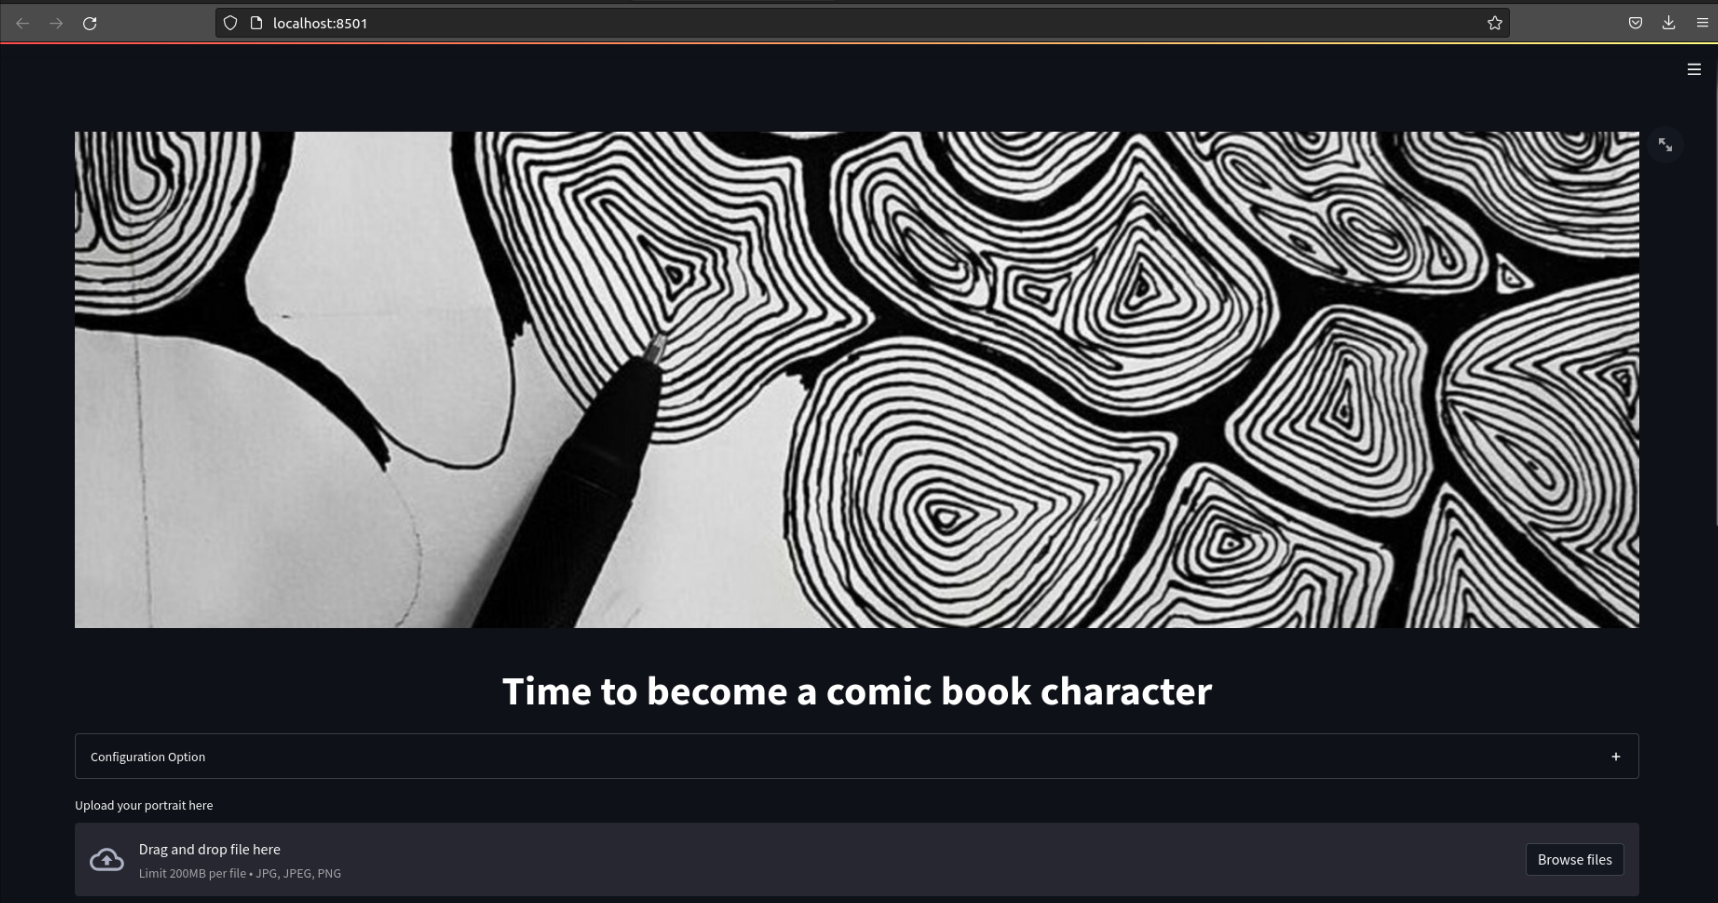
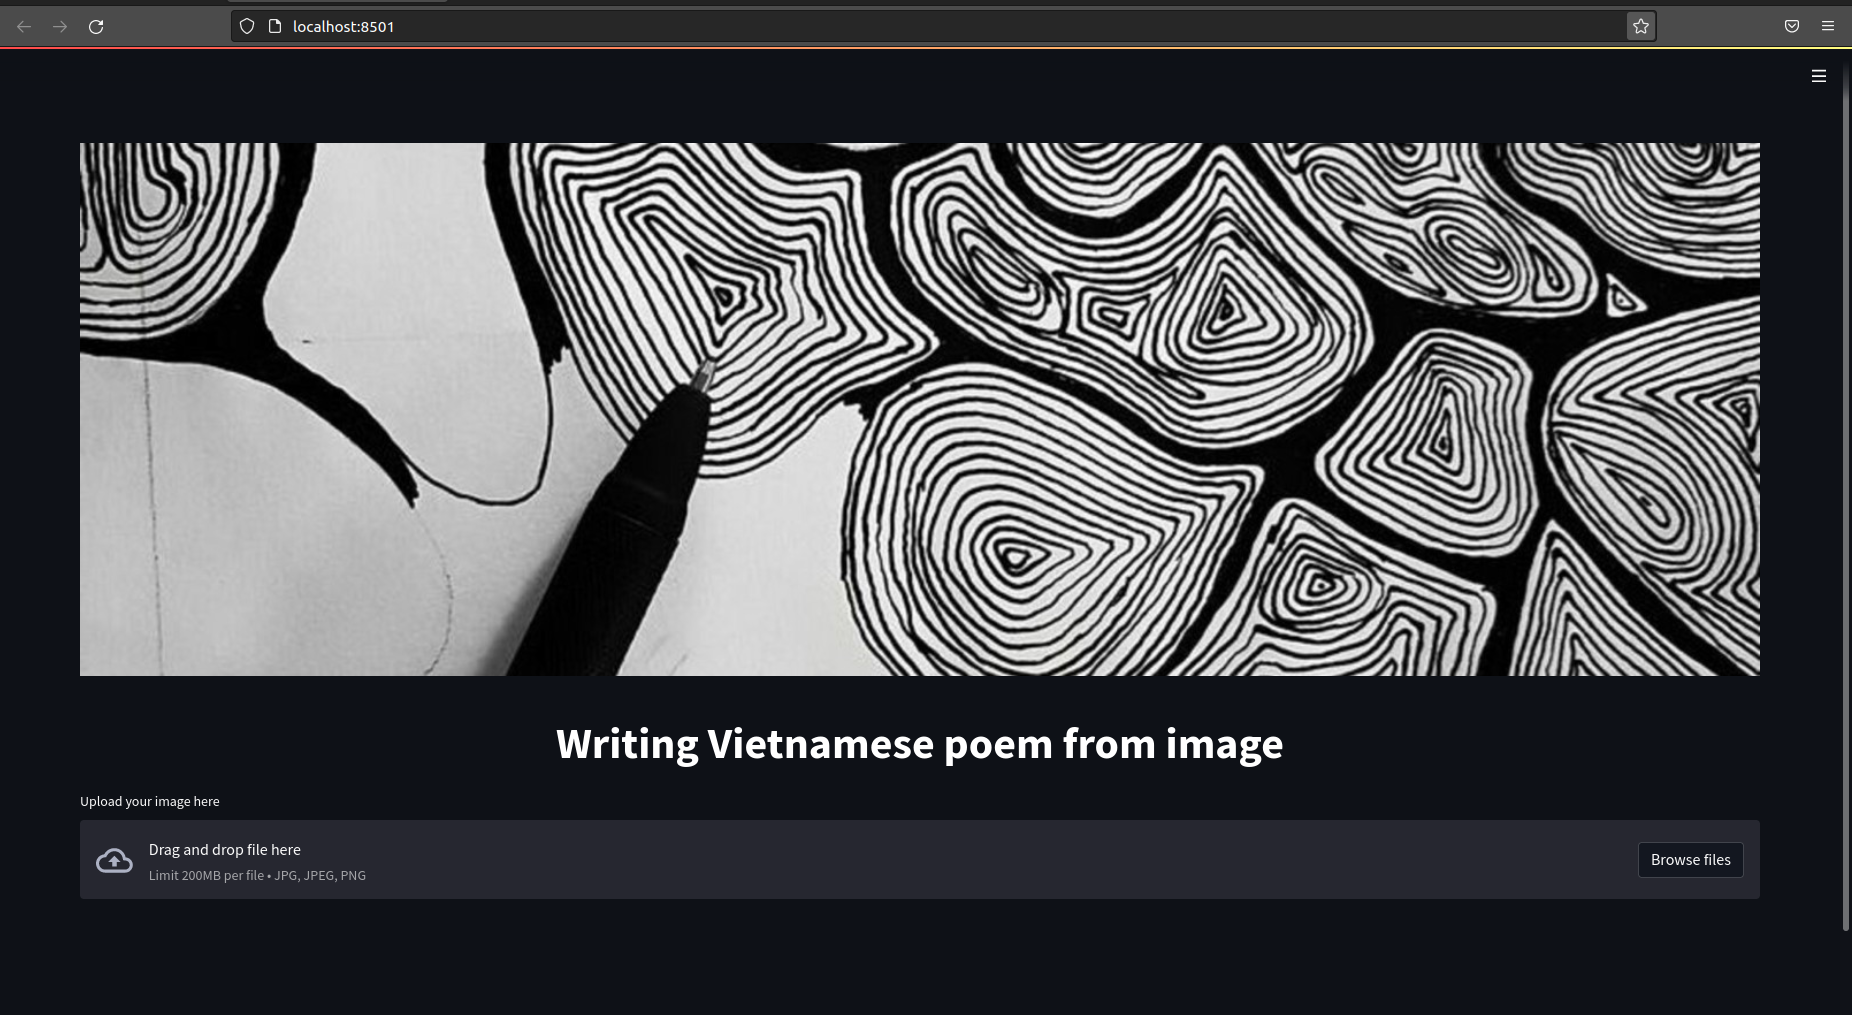
init

diff --git a/app.py b/app.py
@@ -1,19 +1,19 @@
 import os
-import pipeline
 import streamlit as st
+import pipeline
 
 
 def main():
     st.set_page_config(layout="wide")
 
-    st.image(os.path.join('Images','Banner No2.png'), use_column_width  = True)
-    st.markdown("<h1 style='text-align: center; color: black;'>Writing Vietnamese poem from image</h1>", unsafe_allow_html=True)
+    st.image(os.path.join('Images','Banner.png'), use_column_width  = True)
+    st.markdown("<h1 style='text-align: center; color: white;'>Writing Vietnamese poem from image</h1>", unsafe_allow_html=True)
     
-    img_file_buffer = st.file_uploader('Upload your image here',type=['jpg','jpeg','png'])
+    img_file_buffer = st.file_uploader('Upload your portrait here',type=['jpg','jpeg','png'])
     if img_file_buffer is not None:
         from PIL import Image
         col1, col2 = st.columns(2)
-        image = Image.open(img_file_buffer).convert("RGB")
+        image = Image.open(img_file_buffer)
         with col1:
             st.image(image)
 
@@ -22,7 +22,7 @@ def main():
         poem = poem.split(' [SEP] ')[-1].replace('\n', '<br />')
 
         with col2:
-            st.markdown("<h4 style='text-align: center; color: black; line-height: 2;'>" + poem + "</h4>", unsafe_allow_html=True)
+            st.markdown("<h4 style='text-align: center; color: white;'>" + poem + "</h4>", unsafe_allow_html=True)
 
 
 if __name__ == '__main__':

diff --git a/pipeline.py b/pipeline.py
@@ -11,21 +11,21 @@ tokenizer = AutoTokenizer.from_pretrained("vinai/phobert-base", use_fast=False)
 
 # -------Load model saved-----------------#
 
-img2kw_conf_path = os.path.join(args.Img2Kw_model, 'config.json')
+img2kw_conf_path = os.path.join(args['Img2Kw_model'], 'config.json')
 
 parser = parser_args()
 parser.add_argument('--config', help='config file', default= img2kw_conf_path)
 parser.add_argument('-f')
-args = parser.parse_args()
+img2kw_args = parser.parse_args()
 
-vis_extractor = Query2Label(args)
+vis_extractor = Query2Label(img2kw_args)
 # infer.main(args)
 
 
 configuration = {'num_beams': 5, 'max_length': 256, "architectures": ["GPT2LMHeadModel"]}
 config = PretrainedConfig()
 config.from_dict(configuration)
-poem = pipeline('text-generation', model=args.Kw2Poem_model,
+poem = pipeline('text-generation', model=args['Kw2Poem_model'],
                 tokenizer=tokenizer,
                 config=config)
 

diff --git a/README.md b/README.md
@@ -25,9 +25,9 @@ Dual-Transformer is the framework with the input is an scenery image and the out
     streamlit run app.py
 ```
 
-![The general of the Img2Poem website](/Images/general.png "The Img2Poem website")
+<!-- ![The general of the Img2Poem website](/Images/general.png "The Img2Poem website")
 
-![Infer an image](/Images/infer.png "The Img2Poem website")
+![Infer an image](/Images/infer.png "The Img2Poem website") -->
 
 ## Train Model
 
